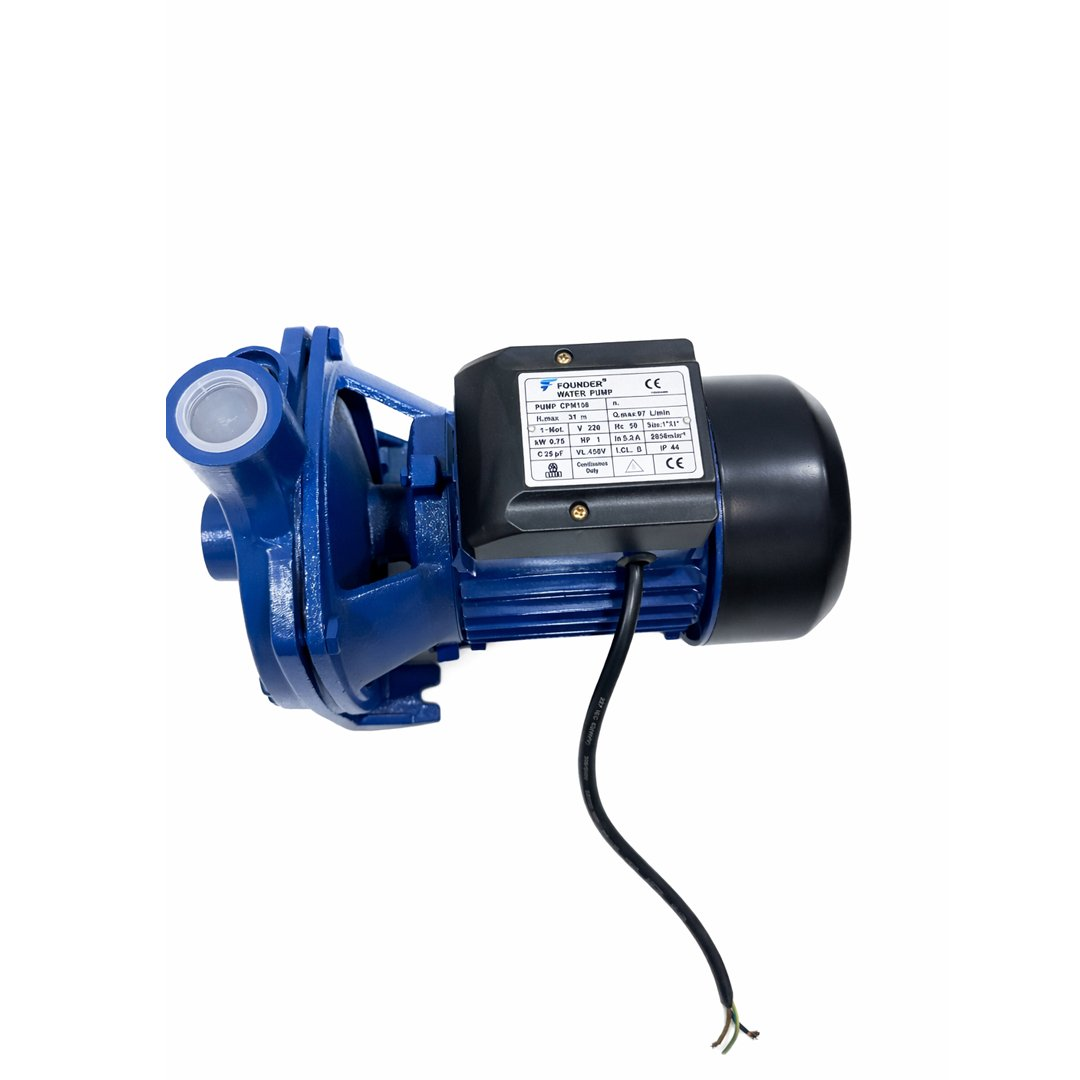
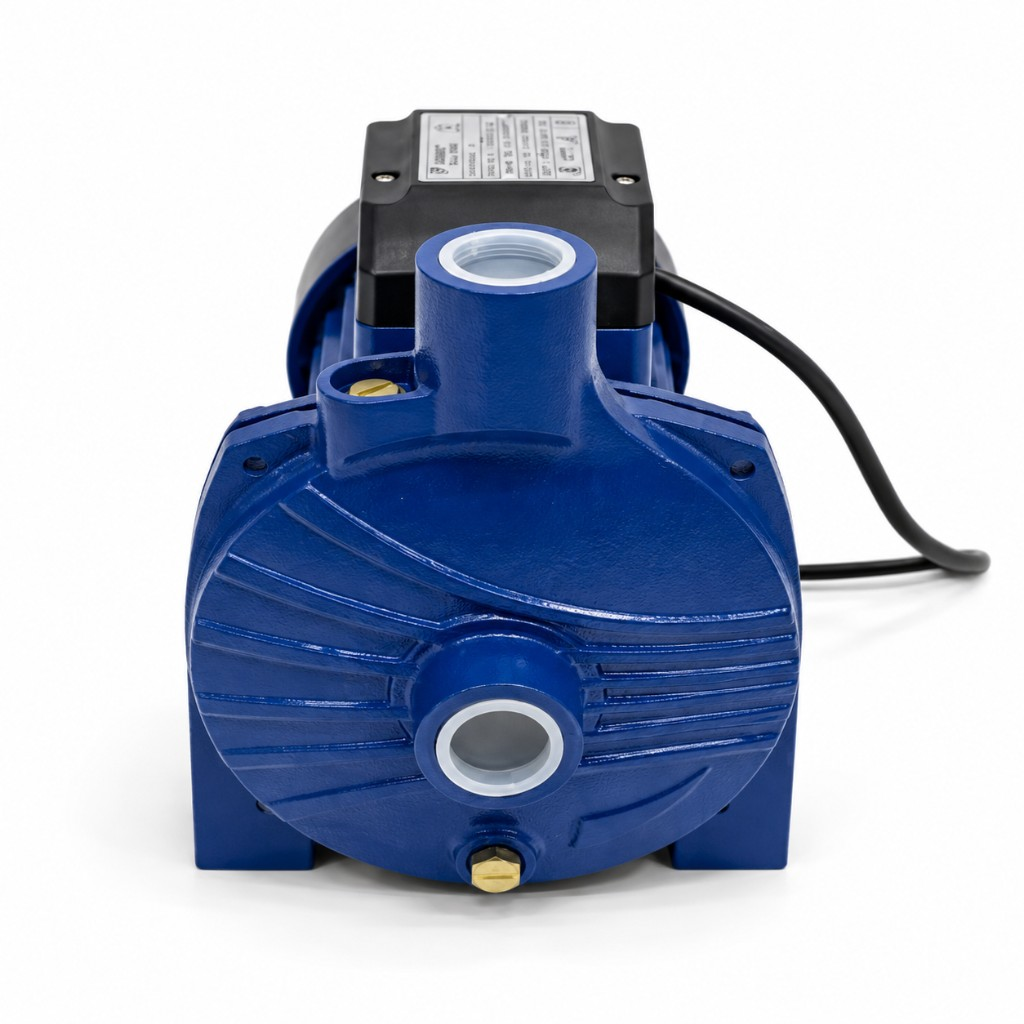
Use the new studio photo as the China CPM 158 cover and gallery.

diff --git a/src/lib/data.ts b/src/lib/data.ts
@@ -15,7 +15,7 @@ import { cleanCopy, cleanSpecs, realImages } from "@/lib/utils";
 
 const CACHE_REVALIDATE = 60;
 /** Bump when product media/catalog changes outside admin (e.g. direct DB edits). */
-const PRODUCTS_CACHE_VERSION = "13";
+const PRODUCTS_CACHE_VERSION = "14";
 
 // ---------------------------------------------------------------------------
 // Fallback: normalize the bundled seed data into UI shapes.

diff --git a/src/data/seed-data.ts b/src/data/seed-data.ts
@@ -605,7 +605,7 @@ export const products: SeedProduct[] = [
       Origin: "China",
     },
     imageSeed: "cpm158-cn",
-    images: pm("cpm158-1hp-monoblock-pressure-pump-china", "cover.jpg", "gallery-01.jpg"),
+    images: pm("cpm158-1hp-monoblock-pressure-pump-china", "cover.jpg", "gallery-01.jpg", "gallery-02.jpg"),
   }),
   product({
     name: "V750DF Submersible Sewage Pump",
